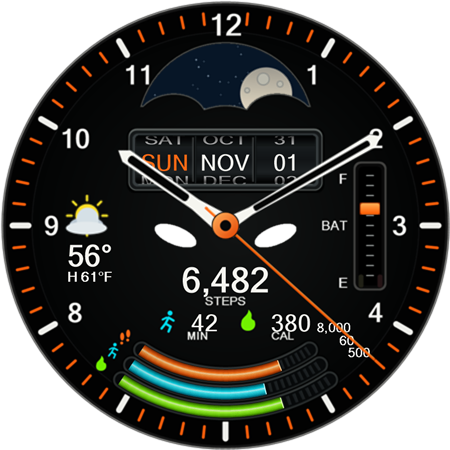
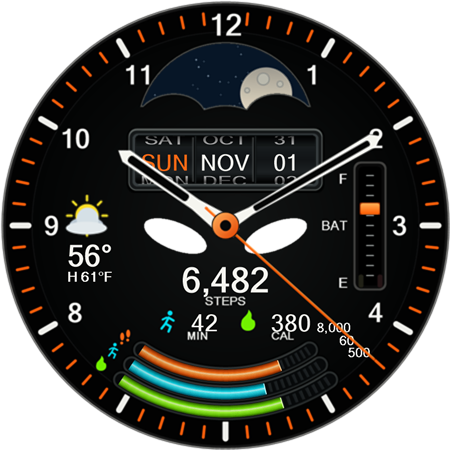
Enlarge balance windows and slow movement to 220 ms

Changed region(s): [[0.3111, 0.4667, 0.4667, 0.5911], [0.5289, 0.4667, 0.6844, 0.5911]]

diff --git a/docs/device-acceptance.md b/docs/device-acceptance.md
@@ -1,6 +1,6 @@
 # Watch6 device acceptance
 
-Status: **0.4.8 installed on the SM-R950**, with the health companion installed
+Status: **0.4.9 installed on the SM-R950**, with the health companion installed
 on the watch and paired Galaxy S24 Ultra. On 2026-11-02, consented Samsung Health
 SDK reads and Data Layer delivery succeeded. After the developer selected the
 two Emberphase providers, live active-minute/calorie totals, their numeric goals
@@ -23,6 +23,11 @@ mechanism disappears in always-on and returns on waking. The runtime accepts
 the new default-on editor setting. The low-battery cutoff and disabled setting
 have automated expression/structure checks; they still need physical testing.
 The 180 ms transition is configured in WFF, not measured from the recording.
+
+Version 0.4.9 enlarges both balance windows by 50% in width and height and
+lengthens the native transition to 220 ms. Installation/version and the larger
+openings were checked on the physical watch; weather and all activity displays
+remain visible. The previous sleep/wake test is from 0.4.8.
 
 Initial **0.4.2 installation** on
 2026-11-01: ADB activation succeeded and an awake screenshot confirmed the

diff --git a/docs/validation.md b/docs/validation.md
@@ -190,3 +190,12 @@ ambient hiding and resumed rendering. A six-second physical recording is
 kept locally under ignored artifacts, along with device screenshots. Actual
 transition timing, the editor-off setting, low-battery device behavior and
 battery consumption have not been measured in this revision.
+
+Version 0.4.9 enlarges the balance apertures from 44 by 18 to 66 by 27 logical
+units, retaining their centers and angles. The transition is now 220 ms with
+780 ms rest. Both animated previews were regenerated; the close-up crop expands
+to include the larger windows. Raster checks find 974 changing pixels confined
+to the openings, and both GIFs pass the two-second cycle/hold checks. WFF schema,
+SDK-native build/signature/resource-only and memory checks, and expression tests
+pass. Version 0.4.9 was installed and its enlarged windows inspected on the
+SM-R950. No new artwork resource or ambient change was introduced.

diff --git a/docs/data-sources.md b/docs/data-sources.md
@@ -126,7 +126,7 @@ or adjacent calendar entries. Samsung display offload was observed active.
 Actual battery life must be measured on the watch.
 
 The optional hidden balance uses `[SECOND] % 2` to alternate its angle between
--55 and +55 degrees. Native WFF animation interpolates each change for 180 ms
+-55 and +55 degrees. Native WFF animation interpolates each change for 220 ms
 at 30 fps, then holds the settled position for the rest of the second. One
 148-by-148 image moves behind the static dial's two apertures; no animated GIF
 is packaged in the APK. There is no millisecond source, continuous animation,

diff --git a/README.md b/README.md
@@ -34,7 +34,7 @@ measurements are still pending.
 
 See the balance in motion: [full-face animation](docs/previews/balance-motion.gif)
 and [enlarged detail](docs/previews/balance-detail.gif). These previews hold the
-clock hands still to isolate the mechanism's 180 ms movement and 820 ms rest.
+clock hands still to isolate the mechanism's 220 ms movement and 780 ms rest.
 The seconds hand retains its separate 130 ms tick.
 
 See the [always-on](docs/previews/ambient.png),
